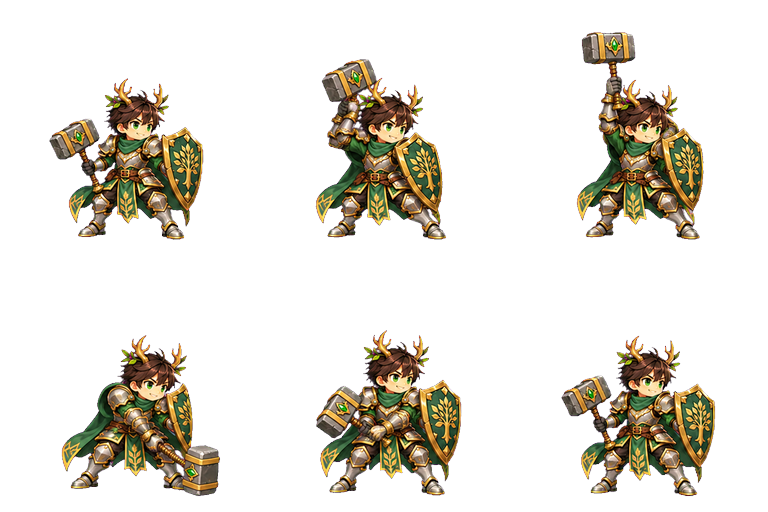
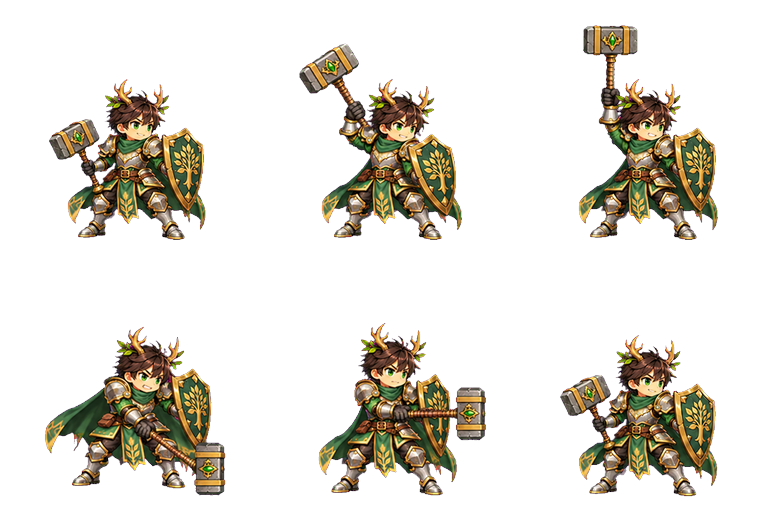
art(nori): form 2-3 hammer slam redrawn (sol low) with a rigid hammer: the handle shows its full length on the backswing and the head stays perpendicular to it, standing on its striking face at the slam and upright on the recoil

diff --git a/assets/heroes/forms/earth/tools/redraw_attack.py b/assets/heroes/forms/earth/tools/redraw_attack.py
@@ -1,0 +1,72 @@
+"""Nori's form 2-3 attack (overhead hammer slam) redrawn with a rigid hammer: the player found the handle
+vanishing on the backswing (the head sitting on his fist) and, in form 3, the head lying along the
+ground on the slam and parallel to the handle on the recoil.
+
+Keeps the character paragraph and layout of the sheet's earlier prompt; only the motion changes. Image 2
+is a make_anchor_layout template of the form's resting pose. Placement is the earlier one
+(place_action.py, spec same,boots,boots,sole,boots,fit at K .85, forms.json scale 1.1765).
+
+  python assets/heroes/forms/earth/tools/redraw_attack.py gen <form> [model effort]   -> .build-cache/redo/nori-atk<form>/raw.png
+  python assets/heroes/forms/earth/tools/redraw_attack.py place <form>                -> .build-cache/redo/nori-atk<form>/place/sheet.png
+  python assets/heroes/forms/earth/tools/redraw_attack.py accept <form>               -> form-N/attack.webp + attack/{raw-original.png,prompt-used.txt}
+"""
+import shutil
+import subprocess
+import sys
+from pathlib import Path
+
+from PIL import Image
+
+ROOT = Path(__file__).resolve().parents[5]
+FORMS = ROOT / "assets/heroes/forms/earth"
+GEN = "C:/Users/dungc/.claude/skills/generate2dsprite/scripts/codex_image_gen.py"
+ANCHOR = "C:/Users/dungc/.codex/skills/generate2dsprite/scripts/make_anchor_layout.py"
+PROC = "C:/Users/dungc/.codex/skills/generate2dsprite/scripts/generate2dsprite.py"
+MOTION = """Create a 6-frame ATTACK animation: one heavy, readable overhead HAMMER SLAM. Both feet stay planted on the ground line in exactly the same place and the same wide stance as Image 2 in ALL six frames (the boots never slide, lift or change size); the hips stay in place; the strike comes from the arms, shoulders and a torso twist with a knee bend.
+THE HAMMER IS ONE RIGID OBJECT, exactly the hammer of Image 1 in every frame: its handle always shows its FULL length between his fist and the hammer head (never hidden behind the head, never shortened, the head never sits directly on his fist), and the hammer head is always PERPENDICULAR to the handle, like the top bar of a letter T. The hammer only rotates as a whole around his grip.
+Frame 1: ready guard, exactly the resting pose of Image 2 (hammer at his side, shield in front).
+Frame 2: wind-up: his right arm is raised and drawn back behind his right shoulder, and the hammer is swung back with its handle stretched out straight at full length, pointing up and back behind his head (about 45 degrees behind vertical); the hammer head is far from his fist at the end of the handle, high behind his head, perpendicular to the handle; torso turns slightly back; shield pulled in to his chest.
+Frame 3: the hammer comes over the top: the handle points straight up above his head at full length and the hammer head lies horizontal on top of it at the peak of the arc, both shoulders lifted, eyes fierce.
+Frame 4: the SLAM: the hammer has swung down in front of him, the handle diagonal from his hands down to the ground in front of his front foot, and the hammer head strikes the ground with its flat striking face pressed squarely DOWN onto the ground (the head stands upright on its face, perpendicular to the handle, never lying on its side along the ground); torso leaning forward, knees bent so the body is a little lower (about 6% of his height), shield held to his left side.
+Frame 5: recoil: the hammer lifts back up off the ground to waist height in front of him, the handle about level pointing forward, the hammer head standing UPRIGHT (vertical) at the far end of the handle, perpendicular to it; body rising back up.
+Frame 6: back to the ready guard of frame 1, exactly the resting pose of Image 2.
+"""
+
+
+def work(form):
+    return ROOT / f".build-cache/redo/nori-atk{form}"
+
+
+def gen(form, model="gpt-6.1-sol", effort="low"):
+    w = work(form); w.mkdir(parents=True, exist_ok=True)
+    idle = Image.open(FORMS / f"form-{form}/idle.webp").convert("RGBA"); c = idle.width // 2
+    ref = Image.new("RGBA", (c, c), (255, 0, 255, 255)); ref.alpha_composite(idle.crop((0, 0, c, c)))
+    ref.convert("RGB").resize((1024, 1024), Image.Resampling.LANCZOS).save(w / "identity.png")
+    subprocess.run([sys.executable, ANCHOR, "--input", str(w / "identity.png"), "--rows", "2", "--cols", "3", "--cell-width", "512", "--cell-height", "512",
+                    "--subject-height-ratio", ".62", "--feet-ratio", ".88", "--output", str(w / "anchor.png")], check=True, capture_output=True)
+    old = (FORMS / f"form-{form}/attack/prompt-used.txt").read_text(encoding="utf-8")
+    head, tail = old.split("Create a 6-frame ATTACK animation")[0], old.split("SMOOTH, STEADY ANIMATION")[1]
+    (w / "prompt.txt").write_text(head + MOTION + "SMOOTH, STEADY ANIMATION" + tail, encoding="utf-8")
+    subprocess.run([sys.executable, GEN, "--prompt-file", str(w / "prompt.txt"), "--out", str(w / "raw.png"),
+                    "--ref", str(w / "identity.png"), "--ref", str(w / "anchor.png"), "--model", model, "--effort", effort, "--timeout", "900"], check=True)
+
+
+def place(form, spec="same,boots,boots,sole,boots,fit"):
+    w = work(form)
+    subprocess.run([sys.executable, PROC, "process", "--input", str(w / "raw.png"), "--target", "player", "--mode", "attack", "--output-dir", str(w / "key"),
+                    "--rows", "2", "--cols", "3", "--cell-size", "512", "--fit-scale", ".95", "--align", "feet", "--scale-strategy", "preserve",
+                    "--component-mode", "largest"], check=True, capture_output=True)
+    subprocess.run([sys.executable, str(FORMS / "tools/place_action.py"), str(w / "key/raw-sheet-clean.png"), "3", "2",
+                    str(FORMS / f"form-{form}/idle.webp"), str(w / "place"), "attack", spec, "--k=.85"], check=True)
+
+
+def accept(form):
+    w, d = work(form), FORMS / f"form-{form}"
+    Image.open(w / "place/sheet.png").save(d / "attack.webp", lossless=True, method=6)
+    shutil.copy2(w / "raw.png", d / "attack/raw-original.png")
+    shutil.copy2(w / "prompt.txt", d / "attack/prompt-used.txt")
+    print("accepted Nori form", form, "attack")
+
+
+if __name__ == "__main__":
+    {"gen": gen, "place": place, "accept": accept}[sys.argv[1]](*sys.argv[2:])
